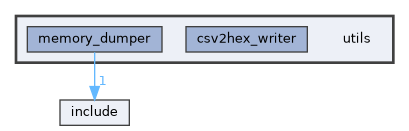
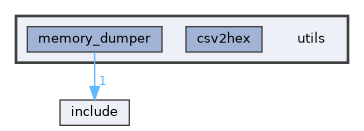
csv2hex setup

diff --git a/docs/html/dir_f4618205ab5798c17447fa8a3cd081b2.html b/docs/html/dir_f4618205ab5798c17447fa8a3cd081b2.html
@@ -5,7 +5,7 @@
 <meta http-equiv="X-UA-Compatible" content="IE=11"/>
 <meta name="generator" content="Doxygen 1.9.8"/>
 <meta name="viewport" content="width=device-width, initial-scale=1"/>
-<title>STC15W408AS library: utils Directory Reference</title>
+<title>STC15W408AS library: utils/csv2hex Directory Reference</title>
 <link href="tabs.css" rel="stylesheet" type="text/css"/>
 <script type="text/javascript" src="jquery.js"></script>
 <script type="text/javascript" src="dynsections.js"></script>
@@ -69,32 +69,22 @@ $(function() {
 
 <div id="nav-path" class="navpath">
   <ul>
-<li class="navelem"><a class="el" href="dir_cbdb8362360e11eafe2fa3bc74cf0ffd.html">utils</a></li>  </ul>
+<li class="navelem"><a class="el" href="dir_cbdb8362360e11eafe2fa3bc74cf0ffd.html">utils</a></li><li class="navelem"><a class="el" href="dir_f4618205ab5798c17447fa8a3cd081b2.html">csv2hex</a></li>  </ul>
 </div>
 </div><!-- top -->
 <div class="header">
-  <div class="headertitle"><div class="title">utils Directory Reference</div></div>
+  <div class="headertitle"><div class="title">csv2hex Directory Reference</div></div>
 </div><!--header-->
 <div class="contents">
 <div class="dynheader">
-Directory dependency graph for utils:</div>
+Directory dependency graph for csv2hex:</div>
 <div class="dyncontent">
-<div class="center"><img src="dir_cbdb8362360e11eafe2fa3bc74cf0ffd_dep.png" border="0" usemap="#adir__cbdb8362360e11eafe2fa3bc74cf0ffd__dep" alt="utils"/></div>
-<map name="adir__cbdb8362360e11eafe2fa3bc74cf0ffd__dep" id="adir__cbdb8362360e11eafe2fa3bc74cf0ffd__dep">
-<area shape="rect" href="dir_f4618205ab5798c17447fa8a3cd081b2.html" title="csv2hex" alt="" coords="186,27,262,52"/>
-<area shape="rect" href="dir_5f80566ca90150d94faacccff0c8b65d.html" title="memory_dumper" alt="" coords="27,27,162,52"/>
-<area shape="rect" href="dir_d44c64559bbebec7f509842c48db8b23.html" title="include" alt="" coords="60,100,129,125"/>
-<area shape="poly" href="dir_000023_000021.html" alt="" coords="97,52,97,86,92,86,92,52"/>
-<area shape="rect" href="dir_000023_000021.html" title="1" alt="" coords="98,74,108,89"/>
-<area shape="rect" href="dir_cbdb8362360e11eafe2fa3bc74cf0ffd.html" alt="" coords="16,16,348,63"/>
+<div class="center"><img src="dir_f4618205ab5798c17447fa8a3cd081b2_dep.png" border="0" usemap="#adir__f4618205ab5798c17447fa8a3cd081b2__dep" alt="utils/csv2hex"/></div>
+<map name="adir__f4618205ab5798c17447fa8a3cd081b2__dep" id="adir__f4618205ab5798c17447fa8a3cd081b2__dep">
+<area shape="rect" href="dir_f4618205ab5798c17447fa8a3cd081b2.html" title="csv2hex" alt="" coords="27,52,103,77"/>
+<area shape="rect" href="dir_cbdb8362360e11eafe2fa3bc74cf0ffd.html" title="utils" alt="" coords="16,16,115,88"/>
 </map>
 </div>
-<table class="memberdecls">
-<tr class="heading"><td colspan="2"><h2 class="groupheader"><a id="subdirs" name="subdirs"></a>
-Directories</h2></td></tr>
-<tr class="memitem:"><td class="memItemLeft" align="right" valign="top"><span class="iconfclosed"></span>&#160;</td><td class="memItemRight" valign="bottom"><a class="el" href="dir_5f80566ca90150d94faacccff0c8b65d.html">memory_dumper</a></td></tr>
-<tr class="separator:"><td class="memSeparator" colspan="2">&#160;</td></tr>
-</table>
 </div><!-- contents -->
 <!-- start footer part -->
 <hr class="footer"/><address class="footer"><small>

diff --git a/docs/html/md_utils_2csv2hex_2README.html b/docs/html/md_utils_2csv2hex_2README.html
@@ -5,7 +5,7 @@
 <meta http-equiv="X-UA-Compatible" content="IE=11"/>
 <meta name="generator" content="Doxygen 1.9.8"/>
 <meta name="viewport" content="width=device-width, initial-scale=1"/>
-<title>STC15W408AS library: utils Directory Reference</title>
+<title>STC15W408AS library: README</title>
 <link href="tabs.css" rel="stylesheet" type="text/css"/>
 <script type="text/javascript" src="jquery.js"></script>
 <script type="text/javascript" src="dynsections.js"></script>
@@ -67,35 +67,13 @@ $(function() {
 </div>
 </div>
 
-<div id="nav-path" class="navpath">
-  <ul>
-<li class="navelem"><a class="el" href="dir_cbdb8362360e11eafe2fa3bc74cf0ffd.html">utils</a></li>  </ul>
-</div>
 </div><!-- top -->
-<div class="header">
-  <div class="headertitle"><div class="title">utils Directory Reference</div></div>
+<div><div class="header">
+  <div class="headertitle"><div class="title">README</div></div>
 </div><!--header-->
 <div class="contents">
-<div class="dynheader">
-Directory dependency graph for utils:</div>
-<div class="dyncontent">
-<div class="center"><img src="dir_cbdb8362360e11eafe2fa3bc74cf0ffd_dep.png" border="0" usemap="#adir__cbdb8362360e11eafe2fa3bc74cf0ffd__dep" alt="utils"/></div>
-<map name="adir__cbdb8362360e11eafe2fa3bc74cf0ffd__dep" id="adir__cbdb8362360e11eafe2fa3bc74cf0ffd__dep">
-<area shape="rect" href="dir_f4618205ab5798c17447fa8a3cd081b2.html" title="csv2hex" alt="" coords="186,27,262,52"/>
-<area shape="rect" href="dir_5f80566ca90150d94faacccff0c8b65d.html" title="memory_dumper" alt="" coords="27,27,162,52"/>
-<area shape="rect" href="dir_d44c64559bbebec7f509842c48db8b23.html" title="include" alt="" coords="60,100,129,125"/>
-<area shape="poly" href="dir_000023_000021.html" alt="" coords="97,52,97,86,92,86,92,52"/>
-<area shape="rect" href="dir_000023_000021.html" title="1" alt="" coords="98,74,108,89"/>
-<area shape="rect" href="dir_cbdb8362360e11eafe2fa3bc74cf0ffd.html" alt="" coords="16,16,348,63"/>
-</map>
-</div>
-<table class="memberdecls">
-<tr class="heading"><td colspan="2"><h2 class="groupheader"><a id="subdirs" name="subdirs"></a>
-Directories</h2></td></tr>
-<tr class="memitem:"><td class="memItemLeft" align="right" valign="top"><span class="iconfclosed"></span>&#160;</td><td class="memItemRight" valign="bottom"><a class="el" href="dir_5f80566ca90150d94faacccff0c8b65d.html">memory_dumper</a></td></tr>
-<tr class="separator:"><td class="memSeparator" colspan="2">&#160;</td></tr>
-</table>
-</div><!-- contents -->
+<div class="textblock"></div></div><!-- contents -->
+</div><!-- PageDoc -->
 <!-- start footer part -->
 <hr class="footer"/><address class="footer"><small>
 Generated by&#160;<a href="https://www.doxygen.org/index.html"><img class="footer" src="doxygen.svg" width="104" height="31" alt="doxygen"/></a> 1.9.8

diff --git a/docs/html/pages.html b/docs/html/pages.html
@@ -74,7 +74,7 @@ $(function() {
 <div class="contents">
 <div class="textblock">Here is a list of all related documentation pages:</div><div class="directory">
 <table class="directory">
-<tr id="row_0_" class="even"><td class="entry"><span style="width:16px;display:inline-block;">&#160;</span><a class="el" href="md_utils_2csv2hex__writer_2README.html" target="_self">README</a></td><td class="desc"></td></tr>
+<tr id="row_0_" class="even"><td class="entry"><span style="width:16px;display:inline-block;">&#160;</span><a class="el" href="md_utils_2csv2hex_2README.html" target="_self">README</a></td><td class="desc"></td></tr>
 <tr id="row_1_" class="odd"><td class="entry"><span style="width:16px;display:inline-block;">&#160;</span><a class="el" href="md_utils_2memory__dumper_2README.html" target="_self">Memmory dumper</a></td><td class="desc"></td></tr>
 <tr id="row_2_" class="even"><td class="entry"><span style="width:16px;display:inline-block;">&#160;</span><a class="el" href="md_VERSION__HISTORY.html" target="_self">Version history</a></td><td class="desc"></td></tr>
 </table>

diff --git a/docs/html/search/all_14.js b/docs/html/search/all_14.js
@@ -2,7 +2,7 @@ var searchData=
 [
   ['raising_5for_5ffalling_5fedge_0',['RAISING_OR_FALLING_EDGE',['../group__interrupts.html#gga97fc91f85abe6139a7f24fbdff35c7e7ad791487f941a47c772442d5252a819bc',1,'interrupt.h']]],
   ['read_5fop_1',['READ_OP',['../group__eeprom.html#gga02a1ca0f05ee0d6aa0f1b6c2fc51af94a87a8b6de09985a6be2ba5a88cd8ee77e',1,'eeprom.h']]],
-  ['readme_2',['README',['../md_utils_2csv2hex__writer_2README.html',1,'']]],
+  ['readme_2',['README',['../md_utils_2csv2hex_2README.html',1,'']]],
   ['receive_20functions_3',['receive functions',['../group__uart1__8bit__shared.html',1,'UART1 8-bit send/receive functions'],['../group__uart1__9bit__shared.html',1,'UART1 9bit, 8-bit with parity, 8-bit with two stop bits send/receive functions']]],
   ['references_4',['References',['../index.html#autotoc_md8',1,'']]],
   ['reset_5',['reset',['../group__mcu__reset.html#gadff1ae9368523be49ce8ef497d4ca902',1,'reset:&#160;reset.h'],['../group__mcu__reset.html',1,'Reset']]],

diff --git a/docs/html/search/pages_4.js b/docs/html/search/pages_4.js
@@ -1,4 +1,4 @@
 var searchData=
 [
-  ['readme_0',['README',['../md_utils_2csv2hex__writer_2README.html',1,'']]]
+  ['readme_0',['README',['../md_utils_2csv2hex_2README.html',1,'']]]
 ];

diff --git a/utils/csv2hex/src/csv2hex/csv2hex.py b/utils/csv2hex/src/csv2hex/csv2hex.py
@@ -1,0 +1,11 @@
+from intelhex import IntelHex
+
+def main():
+    ih = IntelHex()
+    ih[0x0000] = 0x01
+    ih[0x0001] = 0x02
+    ih[0x0002] = 0x03
+    ih.write_hex_file("test.hex")
+
+if __name__ == "__main__":
+    main()
